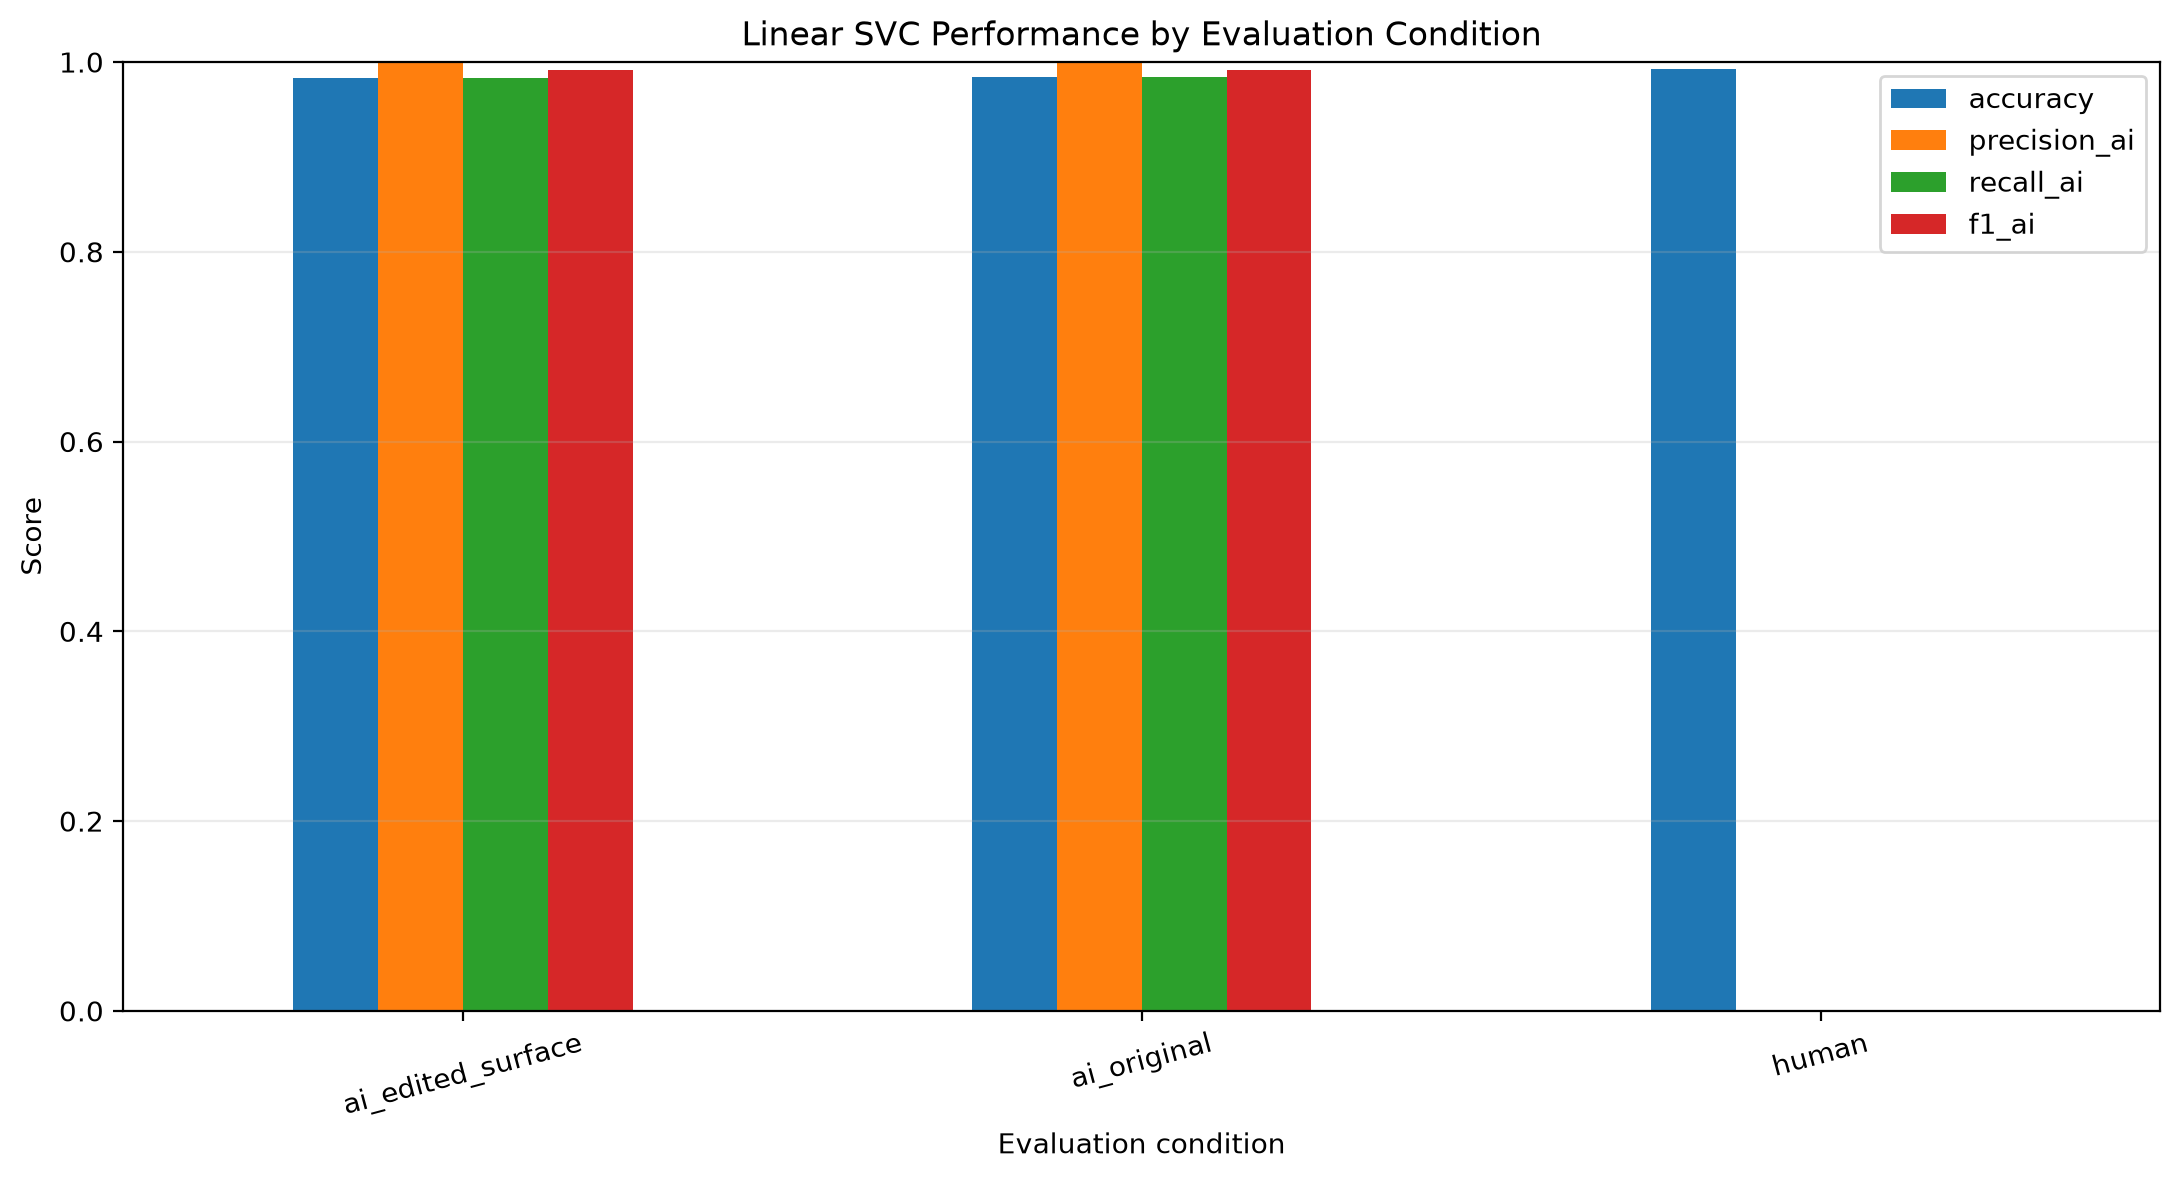
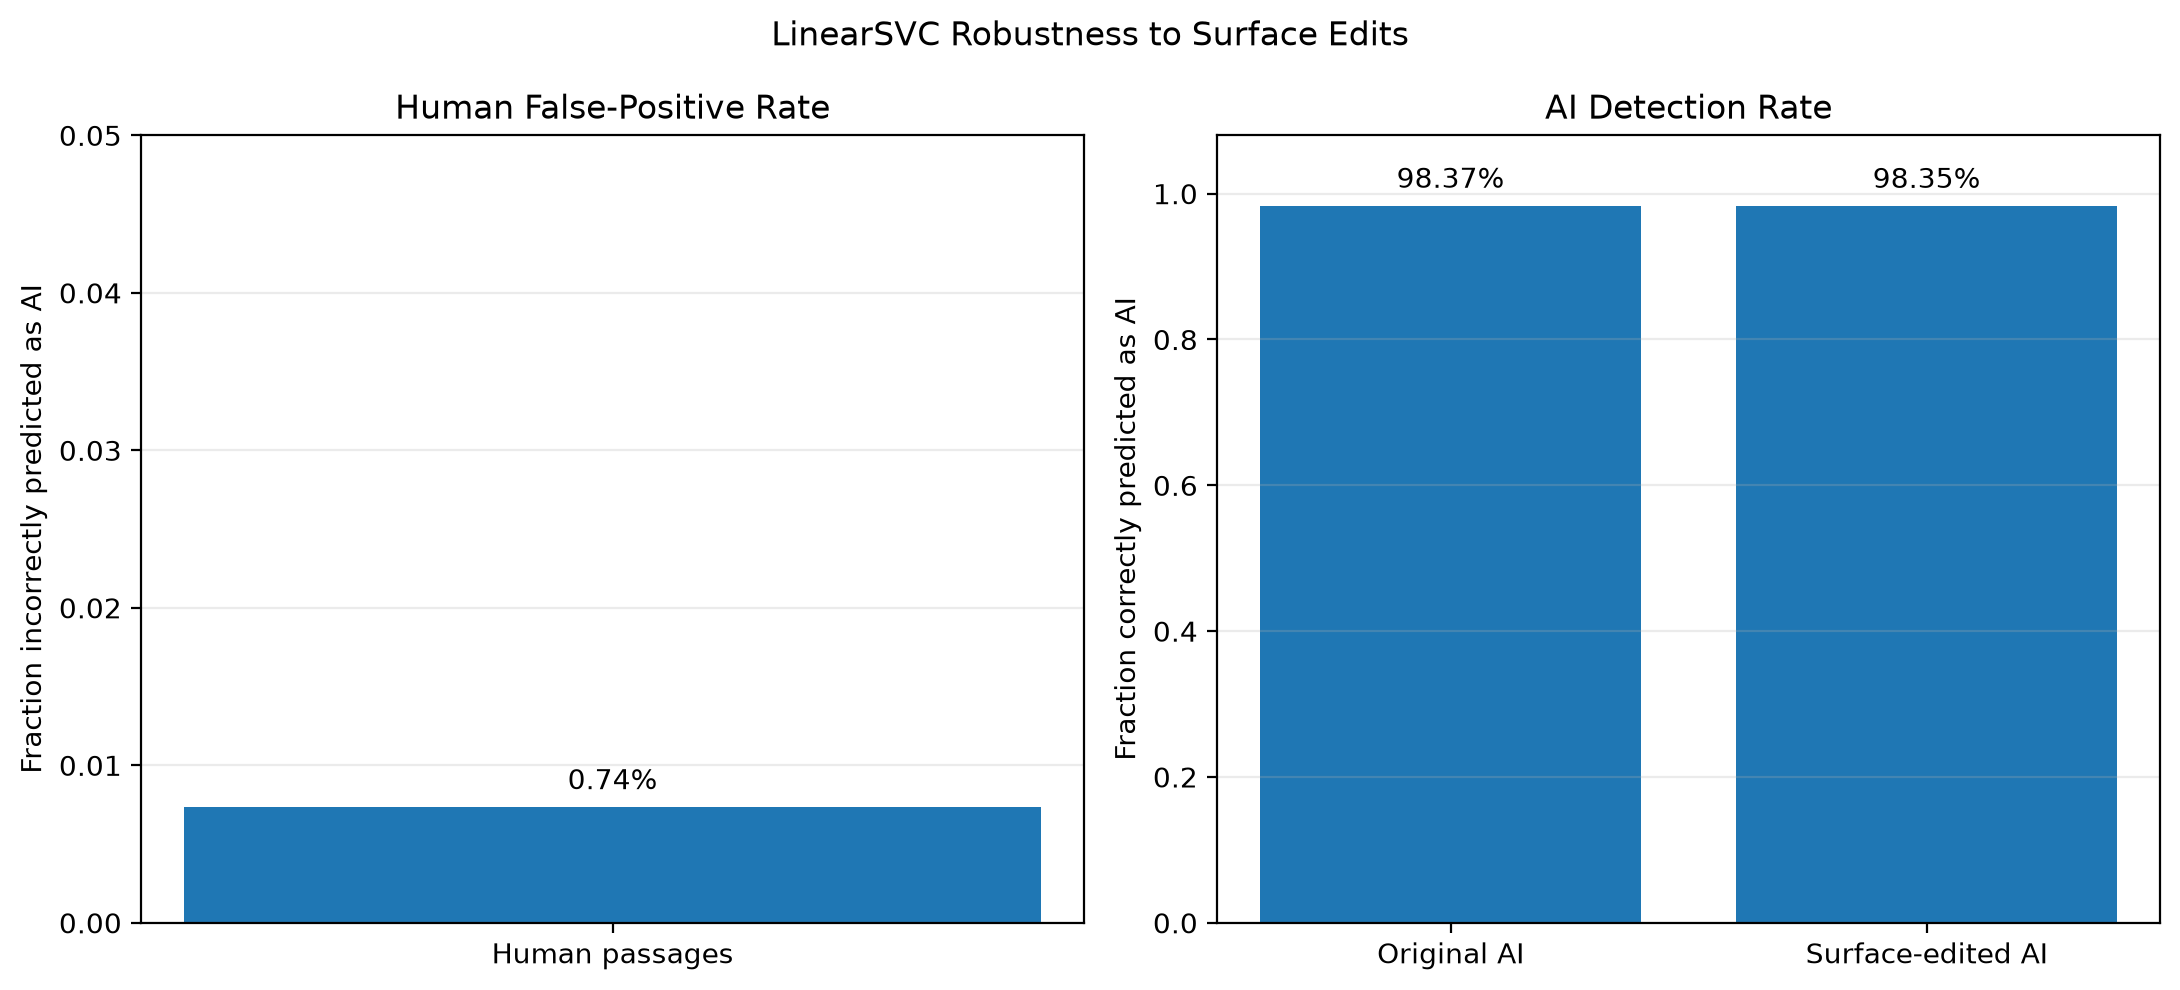
Improve robustness metrics visualization

diff --git a/src/run_robustness.py b/src/run_robustness.py
@@ -310,23 +310,46 @@ def main():
     with open(RESULTS_DIR / "robustness_summary.json", "w") as file:
         json.dump(summary, file, indent=2)
 
-    # Figure 1: condition metrics.
-    plot_metrics = metrics_df.set_index("condition")[
-        ["accuracy", "precision_ai", "recall_ai", "f1_ai"]
+    # Figure 1: report metrics appropriate to each class-specific subset.
+    human_rows = metrics_df[metrics_df["condition"] == "human"]
+    ai_rows = metrics_df[
+        metrics_df["condition"].isin(["ai_original", "ai_edited_surface"])
     ]
-    ax = plot_metrics.plot(kind="bar", figsize=(11, 6), ylim=(0, 1))
-    ax.set_title("Linear SVC Performance by Evaluation Condition")
-    ax.set_ylabel("Score")
-    ax.set_xlabel("Evaluation condition")
-    ax.tick_params(axis="x", rotation=15)
-    ax.grid(axis="y", alpha=0.25)
-    plt.tight_layout()
-    plt.savefig(
+
+    figure, axes = plt.subplots(1, 2, figsize=(11, 5))
+
+    if not human_rows.empty:
+        axes[0].bar(
+            ["Human passages"],
+            human_rows["false_positive_rate"].fillna(0),
+        )
+    axes[0].set_title("Human False-Positive Rate")
+    axes[0].set_ylabel("Fraction incorrectly predicted as AI")
+    axes[0].set_ylim(0, 1)
+    axes[0].grid(axis="y", alpha=0.25)
+
+    if not ai_rows.empty:
+        axes[1].bar(
+            ai_rows["condition"].map({
+                "ai_original": "Original AI",
+                "ai_edited_surface": "Surface-edited AI",
+            }),
+            ai_rows["recall_ai"],
+        )
+    axes[1].set_title("AI Detection Rate")
+    axes[1].set_ylabel("Fraction correctly predicted as AI")
+    axes[1].set_ylim(0, 1)
+    axes[1].tick_params(axis="x", rotation=10)
+    axes[1].grid(axis="y", alpha=0.25)
+
+    figure.suptitle("LinearSVC Robustness to Surface Edits")
+    figure.tight_layout()
+    figure.savefig(
         FIGURES_DIR / "robustness_condition_metrics.png",
         dpi=200,
         bbox_inches="tight",
     )
-    plt.close()
+    plt.close(figure)
 
     # Figure 2: AI detection rate before and after edits.
     rates = pd.Series({
